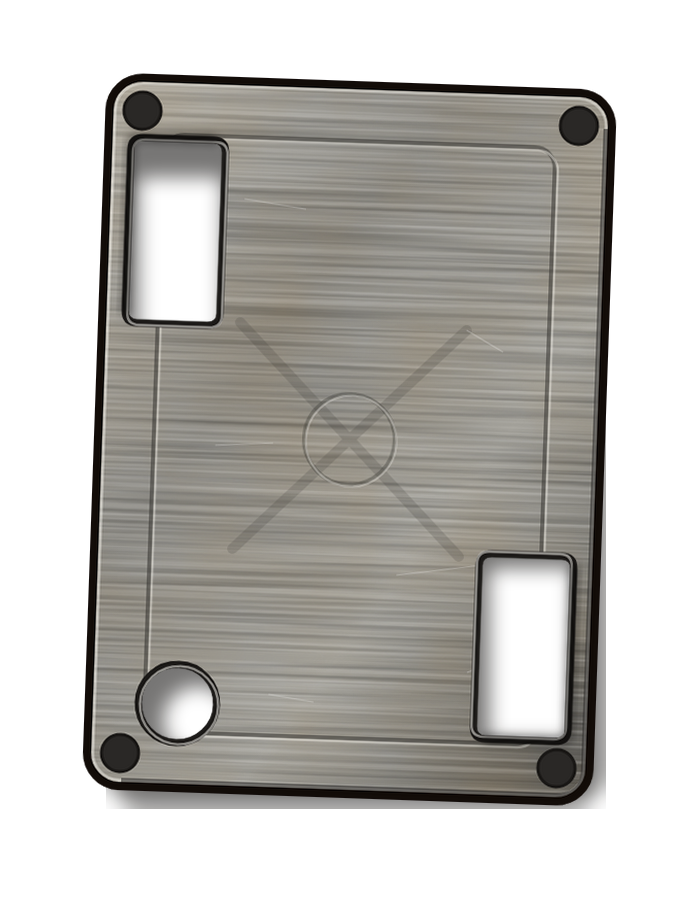
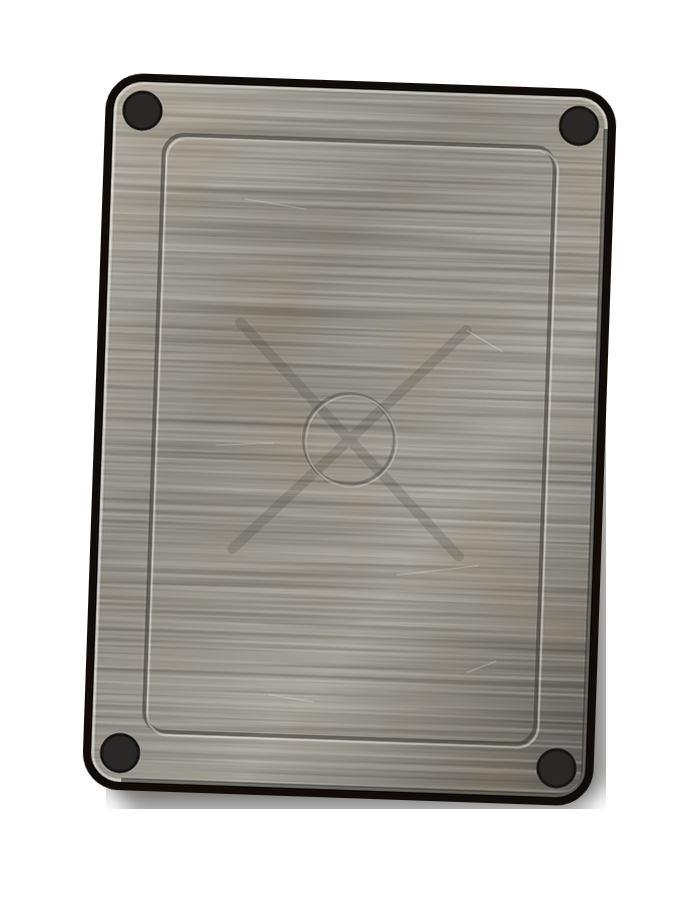
Metal finish r2: a full steel plate under the index
The Metal kit's plate has no cut-outs now: it draws with the face,
before the rank, suit and enhancement badge, so the index sits on the
steel as part of the card (the Joker's stack gets it too). The window
badge workaround is gone, the finish pass keeps only the pins and the
glint, and the bottom pins pop first as in the kit's preview. New pin,
socket, glint and lift art.

Changed region(s): [[0.66, 0.5911, 0.84, 0.84], [0.15, 0.1244, 0.33, 0.3733], [0.18, 0.7156, 0.33, 0.84]]

diff --git a/TRAIL_MODE.md b/TRAIL_MODE.md
@@ -686,9 +686,11 @@ snake tails are too heavy).
 CARD KIT r3 (assets/art/cards, from Claude Design): the Joker's own
 stack (harlequin wash and frame, the jester face, a JKR index with no
 suit, a x2 rider); Prism (foil, a sheen sliding down the diagonal for
-1.8 s then resting 1.2 s, star glints) and Metal (a windowed steel
-plate, pin and empty-socket art at the corners, a glint band, and three
-cover-lift frames at 60 ms) finishes; the hover glare and soft shadow;
+1.8 s then resting 1.2 s, star glints) and Metal (a full steel plate
+drawn under the rank, suit and enhancement badge so they sit on the
+metal, pin and empty-socket art at the corners with the bottom pair
+popping first, a glint band, and three cover-lift frames at 60 ms)
+finishes; the hover glare and soft shadow;
 the Epic relic frame; Chuck Wagon and Swimming Goggles art; Second
 Wind's spent art on the last page; Shell Game art; the Gambler's
 signature toggles; and signature icons on the kit's top row. The kit's
